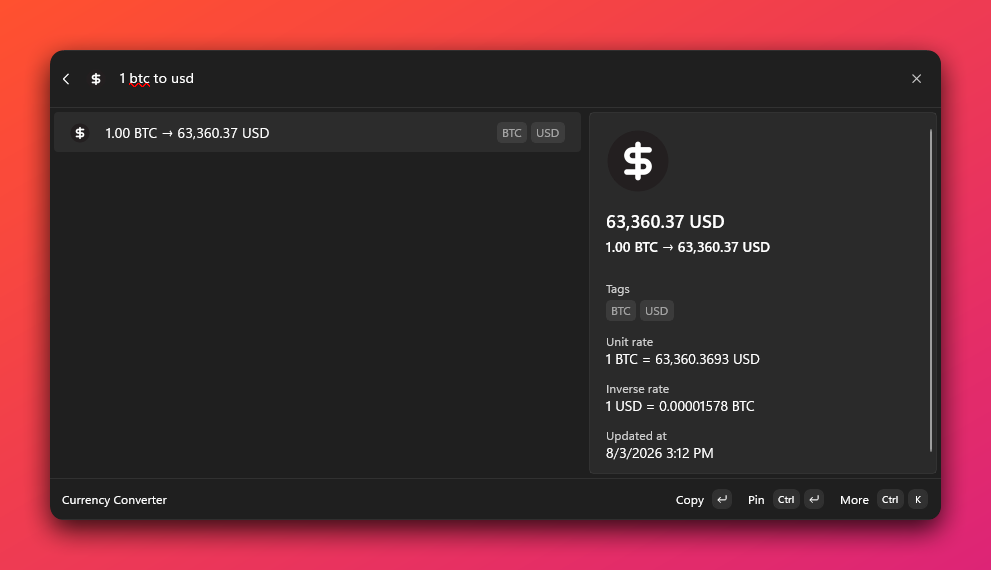
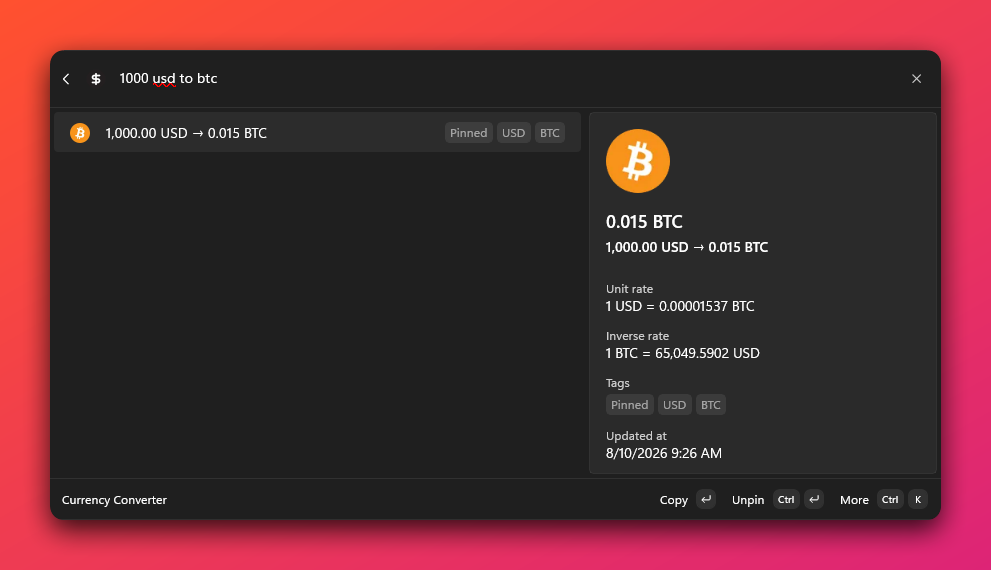
Refresh screenshots and clarify the pins walkthrough in the README.

diff --git a/README.md b/README.md
@@ -77,7 +77,7 @@ Convert between fiat and cryptocurrencies in either direction. See the [full lis
 
 ```
 1 btc to usd
-1209 btc to usd
+1000 usd to btc
 ```
 
 ![Crypto conversion](screenshots/conversion-crypto.png)
@@ -105,22 +105,24 @@ Type a math expression and the extension evaluates it with BODMAS/PEMDAS before 
 
 ## Pins & dock
 
-### Pinning conversions
+Pin conversions you check often. They stay at the top of Currency Converter (when the search box is empty) and also appear on the Command Palette dock.
 
-Keep the pairs you check often at the top of the main converter (when the search box is empty) and on the dock. Pins show a brief **Loading…** state, then update to live rates (or **Loading failed** if the request fails).
+### Pin a conversion
 
-| Where                  | Pin                           | Unpin                         | Enter                       |
-| ---------------------- | ----------------------------- | ----------------------------- | --------------------------- |
-| Main converter results | Context menu (`Ctrl + Enter`) | Context menu (`Ctrl + Enter`) | Copies the converted amount |
+1. Search a conversion, for example `34 btc to aed`.
+2. Open the context menu (`Ctrl + Enter`) and choose **Pin**.
+3. Open Currency Converter again with an empty search — your pins load at the top with live rates.
 
-Example: search `34 btc to aed`, open the context menu (`Ctrl + Enter`), and pin it. Pinned conversions appear at the top of the main page with live rates the next time you open Currency Converter.
+Pins briefly show **Loading…**, then the live amount (or **Loading failed** if the request fails). **Enter** still copies the converted amount; use the context menu (`Ctrl + Enter`) to **Unpin**.
+
+![Pinned conversions](screenshots/pinned-conversions.png)
 
 ### Currency pins on the dock
 
-Pinned conversions also show up in the Command Palette **Currency pins** dock band — so your favorite rates are visible without opening the extension.
+The same pins show up in the Command Palette **Currency pins** dock band, so favorite rates are visible without opening the extension.
 
-- Press **Enter** on a dock pin to copy the converted amount
-- Use the context menu to **Refresh** rates for that pin's base currency, or **Unpin** it
+- **Enter** copies the converted amount
+- Context menu: **Refresh** rates for that pin's base currency, or **Unpin**
 - Dock rates refresh automatically on a new local calendar day, and whenever you change your pins
 
 ![Dock pins](screenshots/dock-pins.png)
